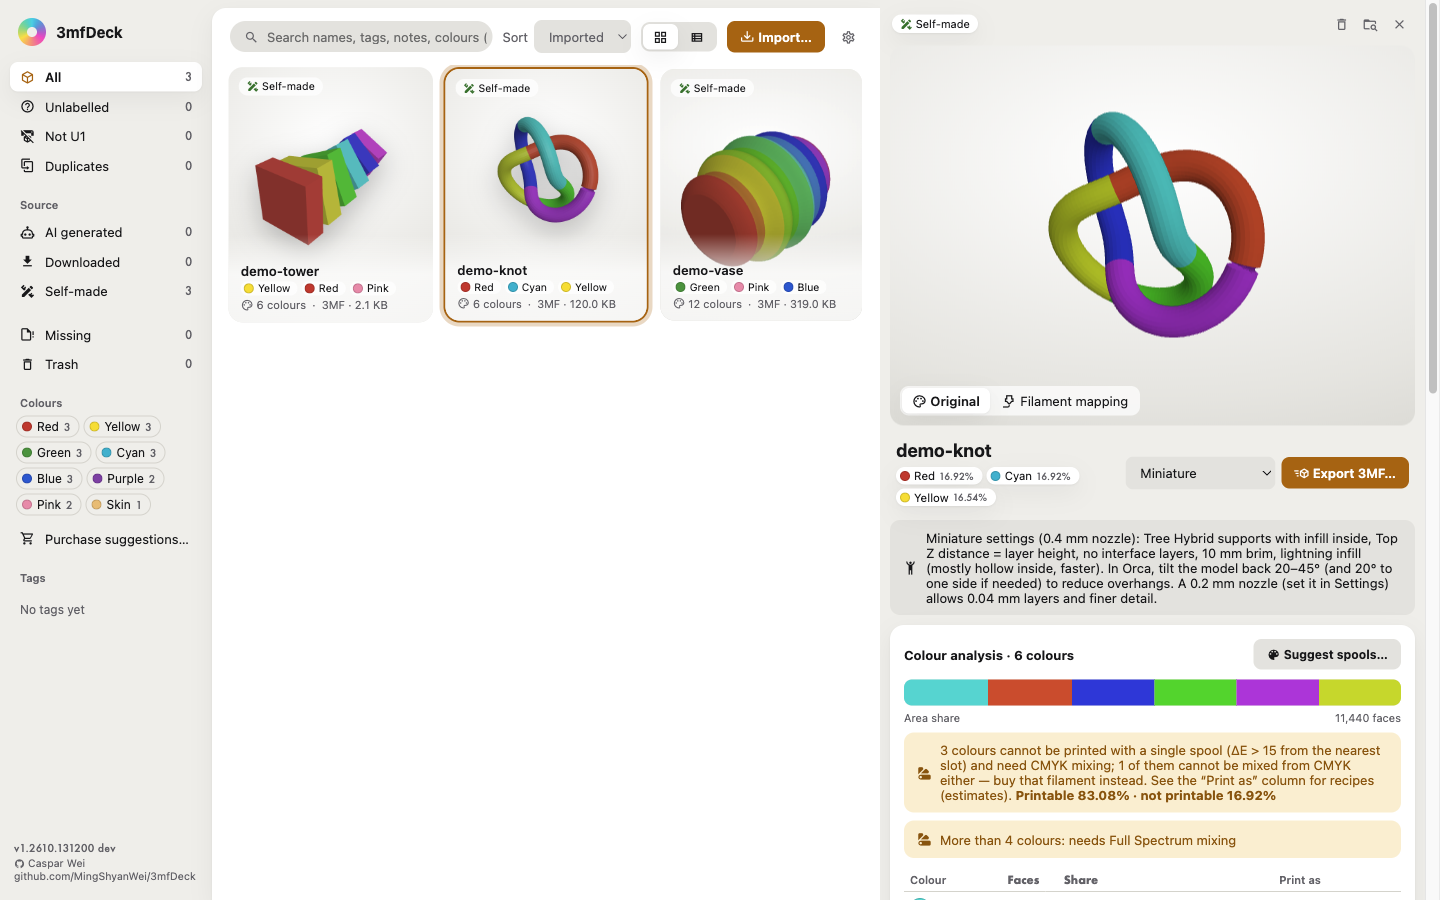
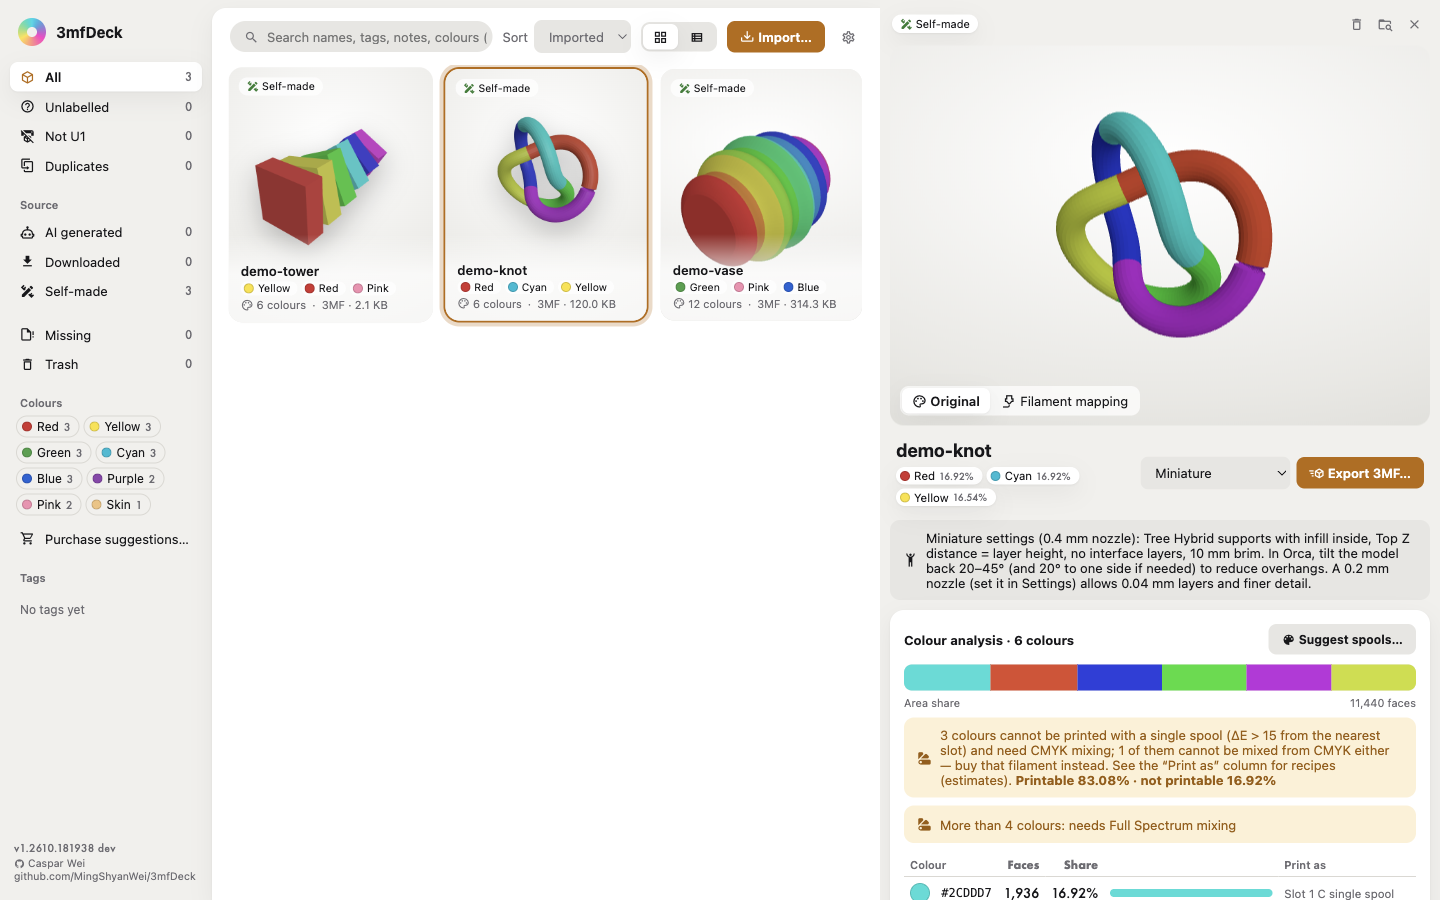
公仔 presets: back to the U1 default infill (no lightning)
The user does not want the figure hollow inside after all: 「改回，不要這樣
中空，預設的就好」. Lightning infill was added on 2026-10-12 to cut the
grizzly from about 22 h to 16 h; the 公仔 and 公仔＋熨燙 presets now leave
sparse_infill_pattern (and density) to the U1 process preset again.

- printPreset.mjs: sparse_infill_pattern no longer written or listed in
  different_settings_to_system; comment records why.
- In-app hint (en / zh-TW / zh-CN) no longer mentions lightning / hollow;
  screenshot 6 regenerated in all three languages.
- Tests: the preset writes no infill keys, the hint does not mention them,
  the changed-keys list leaves them out, the export test expects none.
- User guides, READMEs: the interior row says U1 default. SPEC 3.15: the
  row is struck through with the user's decision (the user asked for this
  change); the 10-12 timing note stays as history.

Unit tests: all pass except the 9 that read real files from iCloud, which
fail with EPERM in this terminal session (unrelated); smoke passes with
the iCloud real file pointed away.

diff --git a/README.md b/README.md
@@ -62,7 +62,7 @@ Downloading models is easy; the trouble starts afterwards:
 
 **Export**
 - Export 3MF: quantized to the nearest spool (with ΔE), source slicer settings stripped to avoid Orca warnings
-- Print settings drop-down next to Export 3MF: **Original settings**, **Miniature** (from r/PrintedMinis, u/HOHansen: lowest layer height for your nozzle, Tree Hybrid supports with infill inside and top Z = layer height, no interface layers, 10 mm brim, Arachne, lightning infill so the inside is mostly hollow, full cooling) or **Miniature + ironing** (also irons upward flat surfaces such as a base); tilting the model back 20–45° is still done in Orca
+- Print settings drop-down next to Export 3MF: **Original settings**, **Miniature** (from r/PrintedMinis, u/HOHansen: lowest layer height for your nozzle, Tree Hybrid supports with infill inside and top Z = layer height, no interface layers, 10 mm brim, Arachne, full cooling) or **Miniature + ironing** (also irons upward flat surfaces such as a base); tilting the model back 20–45° is still done in Orca
 - Mixed filaments: written to `mixed_filament_definitions` (Orca's native Full Spectrum mixed filament); recipes are guidance only and never written back to the original
 - Originals are never modified; every export is a new file
 

diff --git a/README.zh-CN.md b/README.zh-CN.md
@@ -62,7 +62,7 @@
 
 **导出**
 - 导出 3MF：量化到最近料卷（含 ΔE 标示），剥除源切片设置避免 Orca 警告
-- 导出按钮旁的“打印设置”下拉：**原文件设置**、**手办**（依 r/PrintedMinis u/HOHansen：喷嘴最低层高、Tree Hybrid 树状支撑（内部有填充）且顶部 Z 距离＝层高、不用接触层、10 mm 裙边、Arachne、闪电填充让内部大多空心、全速冷却）或 **手办＋熨烫**（再熨烫朝上的平面，例如底座）；模型往后倾 20–45° 仍需在 Orca 手动调整
+- 导出按钮旁的“打印设置”下拉：**原文件设置**、**手办**（依 r/PrintedMinis u/HOHansen：喷嘴最低层高、Tree Hybrid 树状支撑（内部有填充）且顶部 Z 距离＝层高、不用接触层、10 mm 裙边、Arachne、全速冷却）或 **手办＋熨烫**（再熨烫朝上的平面，例如底座）；模型往后倾 20–45° 仍需在 Orca 手动调整
 - 混色耗材：写入 `mixed_filament_definitions`（Orca 原生 Full Spectrum 混合耗材），配方仅供参考、不回写原文件
 - 原文件永不修改，一律生成新文件
 

diff --git a/README.zh-TW.md b/README.zh-TW.md
@@ -62,7 +62,7 @@
 
 **匯出**
 - 匯出 3MF：量化到最近捲（含 ΔE 標示），剝除來源切片設定避免 Orca 警告
-- 匯出按鈕旁的「列印設定」下拉：**原檔設定**、**公仔**（依 r/PrintedMinis u/HOHansen：噴嘴最低層高、Tree Hybrid 樹狀支撐（內部有填充）且 Top Z＝層高、不用介面層、10 mm 裙邊、Arachne、閃電填充讓內部大多空心、全速冷卻）或 **公仔＋熨燙**（再熨燙朝上的平面，例如底座）；模型往後傾 20–45° 仍需在 Orca 手動調整
+- 匯出按鈕旁的「列印設定」下拉：**原檔設定**、**公仔**（依 r/PrintedMinis u/HOHansen：噴嘴最低層高、Tree Hybrid 樹狀支撐（內部有填充）且 Top Z＝層高、不用介面層、10 mm 裙邊、Arachne、全速冷卻）或 **公仔＋熨燙**（再熨燙朝上的平面，例如底座）；模型往後傾 20–45° 仍需在 Orca 手動調整
 - 混色耗材：寫入 `mixed_filament_definitions`（Orca 原生 Full Spectrum 混合耗材），配方僅供參考、不回寫原檔
 - 原檔永不修改，一律產新檔
 

diff --git a/docs/user-guide.md b/docs/user-guide.md
@@ -127,7 +127,7 @@ Based on r/PrintedMinis "[FDM miniatures - How I support them and some updates](
 | Supports | on, tree (Tree Hybrid style); top Z distance = layer height; no interface layers; infill inside the supports (rectilinear, 1.2 mm spacing) |
 | Brim | outer only, 10 mm (covers the support bases) |
 | Walls | Arachne, minimum feature size 30 % |
-| Interior | Lightning infill: only where top surfaces need carrying, otherwise hollow (tested on the grizzly: 22h12m → about 16h) |
+| Interior | The U1 default (not changed) |
 | Line width | 0.2 on the 0.2 nozzle; U1 defaults on the others |
 | Cooling | fans 100 % except the first layer |
 | Z-hop on retraction | already on in the U1 presets, left as is |

diff --git a/docs/user-guide.zh-TW.md b/docs/user-guide.zh-TW.md
@@ -127,7 +127,7 @@
 | 支撐 | 開啟、樹狀（Tree Hybrid 樣式），支撐上方 Z 距離＝層高，不用介面層，支撐內部填充（rectilinear、間距 1.2 mm） |
 | 裙邊 | 僅外側、10 mm（蓋住支撐底部） |
 | 牆 | Arachne，最小特徵 30% |
-| 內部填充 | 閃電（Lightning）：只在需要撐住上方表面的地方填充，內部大多空心（實測熊：22 小時 12 分 → 約 16 小時） |
+| 內部填充 | 沿用 U1 預設（不另外指定） |
 | 線寬 | 0.2 噴嘴改 0.2，其他噴嘴沿用 U1 預設 |
 | 冷卻 | 風扇 100%，第一層除外 |
 | 回抽抬升 | U1 預設已開啟，不另外改 |

diff --git a/docs/user-guide.zh-CN.md b/docs/user-guide.zh-CN.md
@@ -127,7 +127,7 @@
 | 支撑 | 开启、树状（Tree Hybrid 样式），支撑顶部 Z 距离＝层高，不用接触层，支撑内部填充（rectilinear、间距 1.2 mm） |
 | 裙边 | 仅外侧、10 mm（盖住支撑底部） |
 | 墙 | Arachne，最小特征 30% |
-| 内部填充 | 闪电（Lightning）：只在需要撑住上方表面的地方填充，内部大多空心（实测熊：22 小时 12 分 → 约 16 小时） |
+| 内部填充 | 沿用 U1 默认（不另外指定） |
 | 线宽 | 0.2 喷嘴改 0.2，其他喷嘴沿用 U1 默认 |
 | 冷却 | 风扇 100%，首层除外 |
 | 回抽抬升 | U1 默认已开启，不另外改 |
